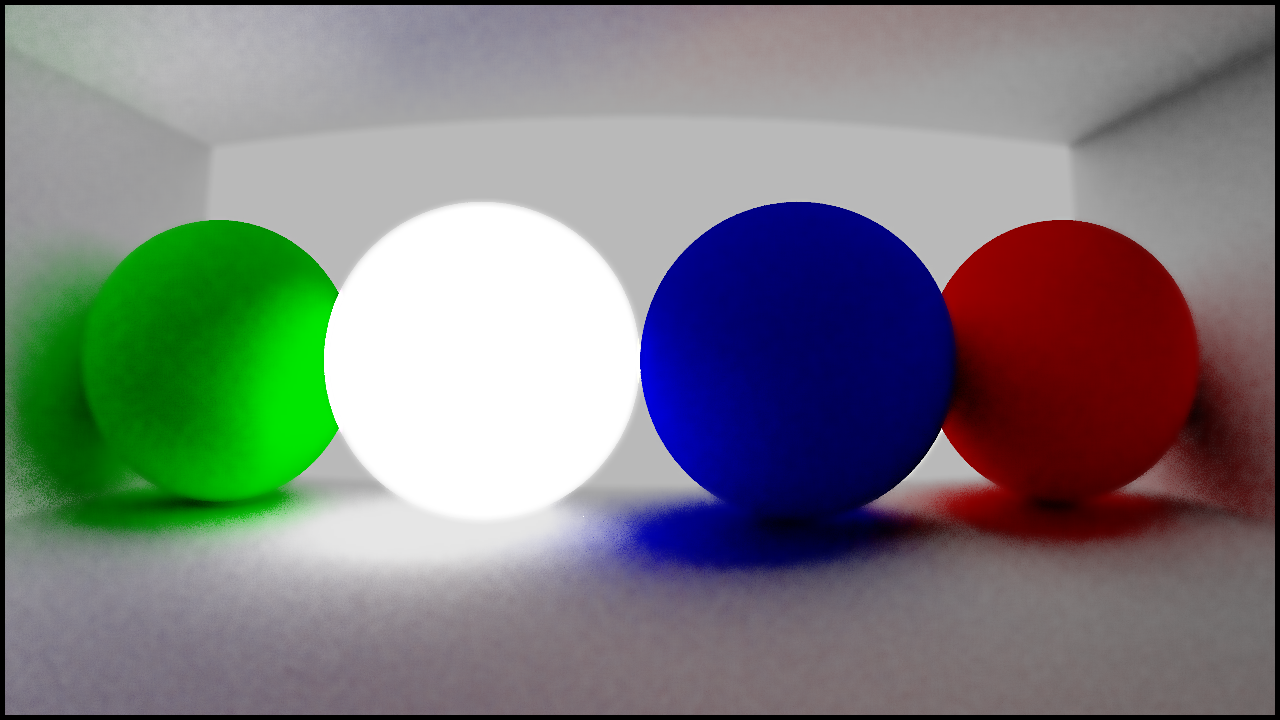
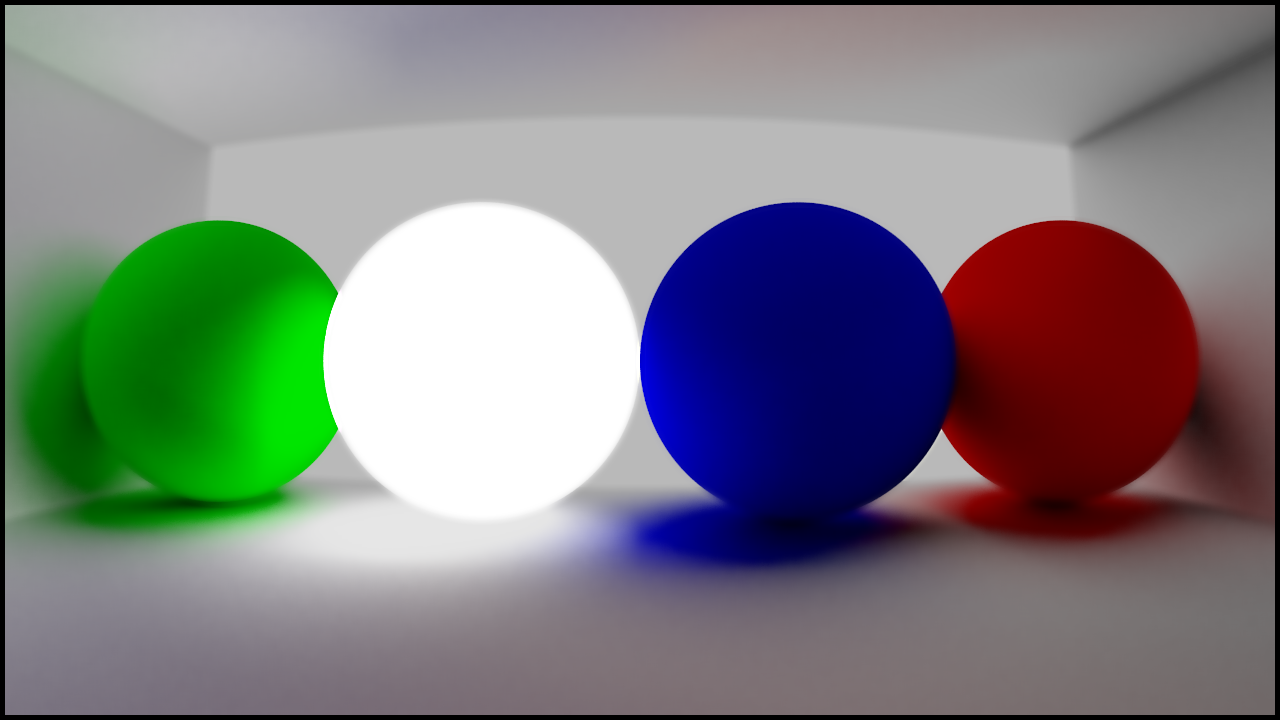
Strengthened denoising

diff --git a/renderer/renderer.cpp b/renderer/renderer.cpp
@@ -71,7 +71,7 @@ void StingrayRenderer::render(int startX, int startY, int endX, int endY, int sa
             for (int i = 0; i < samples; i++) {
                     // Antialiasing by offestting the eye position by a small amount
                     // TODO: faster random number generation
-                Ray camera = Ray (orig_camera.origin + Vec3(randf(), randf(), randf()) * 0.002, orig_camera.direction);
+                Ray camera = Ray (orig_camera.origin + Vec3(randf(), randf(), randf()) * 0.004, orig_camera.direction);
                 color = color + ray_shader(camera, scene, 15);
             }
             color = color / (float)samples;

diff --git a/main.cpp b/main.cpp
@@ -1,5 +1,6 @@
 #include <stdio.h>
 #include <stdlib.h>
+#include <thread>
 #include "renderer/buffer.hpp"
 #include "renderer/renderer.hpp"
 #include "renderer/denoiser.hpp"
